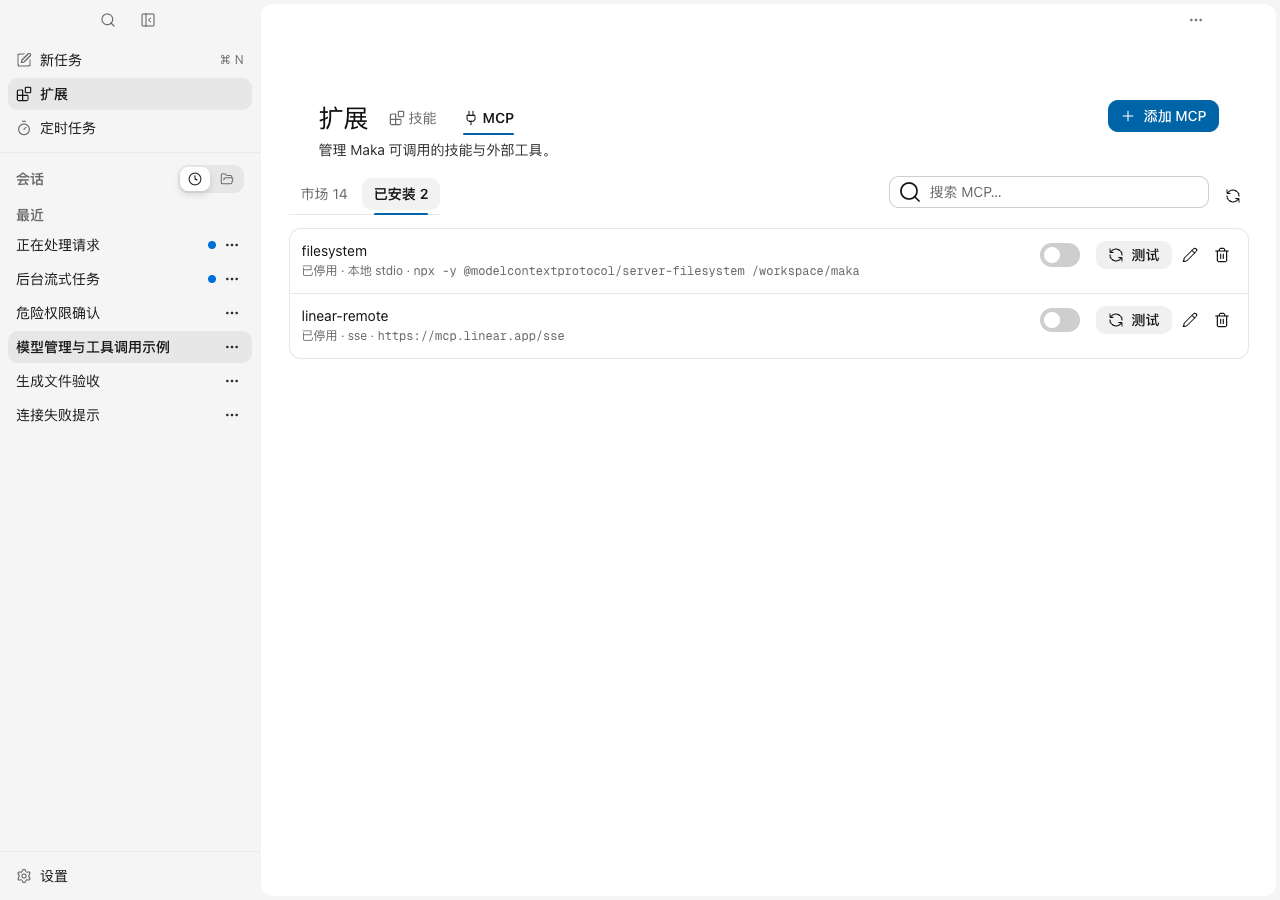
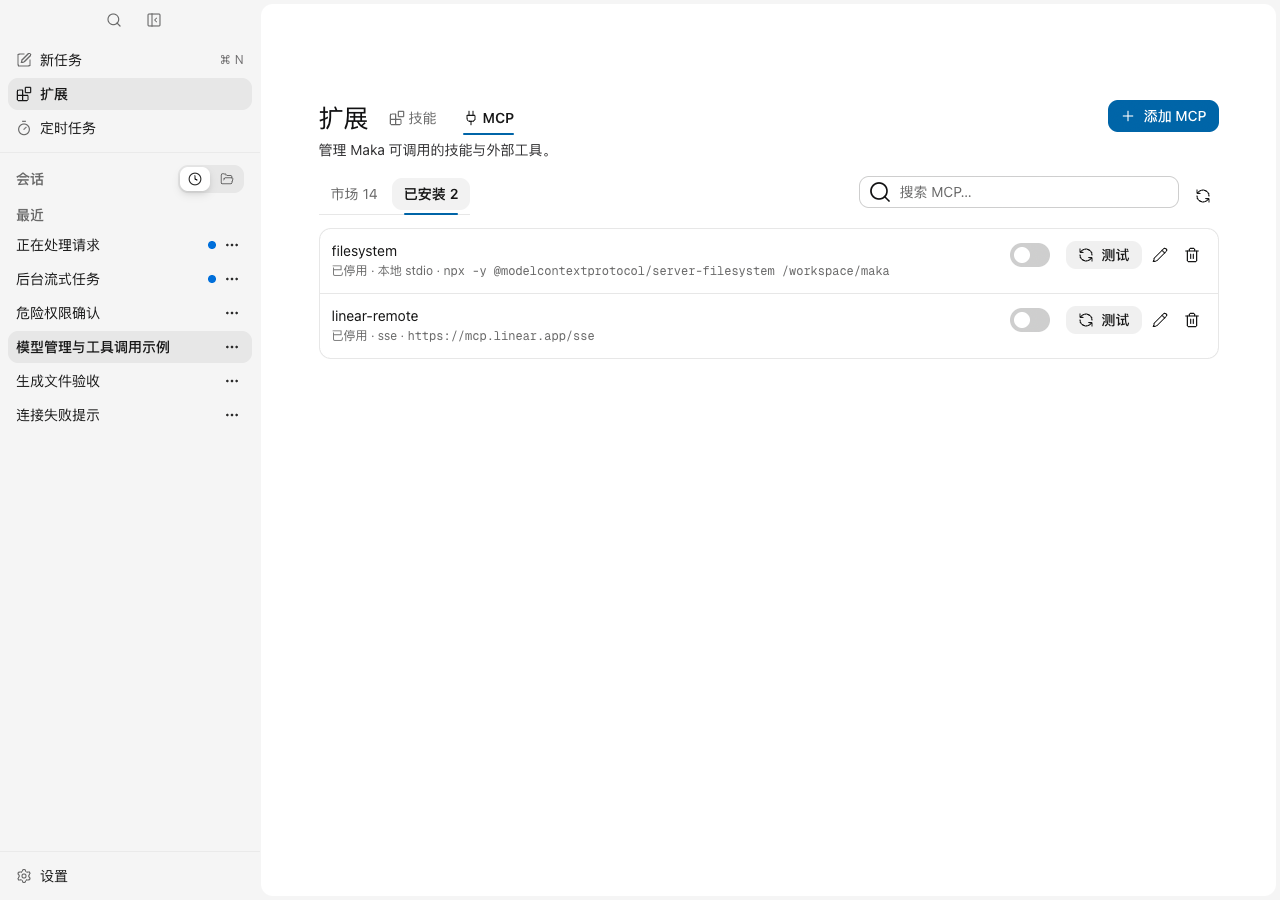
fix(desktop): address MCP review feedback

diff --git a/apps/desktop/e2e/mcp.spec.ts b/apps/desktop/e2e/mcp.spec.ts
@@ -23,13 +23,13 @@ test('module navigation removes the hidden chat surface from layout and hit test
   ).toBe(false);
 });
 
-test('MCP workspace stays centered without horizontal overflow at compact widths', async ({ window: page }) => {
+test('MCP workspace aligns with the shared header without horizontal overflow', async ({ window: page }) => {
   await page.getByRole('button', { name: '展开侧边栏' }).click();
   await page.getByRole('navigation', { name: '对话列表' }).getByRole('button', { name: '扩展', exact: true }).click();
   await page.locator('.maka-module-hub-selector').getByRole('button', { name: 'MCP' }).click();
   await expect(page.locator('.maka-mcp-workspace')).toBeVisible();
 
-  for (const width of [861, 860, 761]) {
+  for (const width of [1440, 1280, 861, 860, 761]) {
     await page.setViewportSize({ width, height: 700 });
     await expect.poll(() => page.evaluate(() => window.innerWidth)).toBe(width);
 
@@ -42,6 +42,7 @@ test('MCP workspace stays centered without horizontal overflow at compact widths
         throw new Error('Expected the MCP module layout');
       }
       const mainRect = main.getBoundingClientRect();
+      const headerRect = header.getBoundingClientRect();
       const workspaceRect = workspace.getBoundingClientRect();
       return {
         mainOverflow: main.scrollWidth - main.clientWidth,
@@ -49,6 +50,10 @@ test('MCP workspace stays centered without horizontal overflow at compact widths
           workspaceRect.left + workspaceRect.width / 2
             - (mainRect.left + main.clientWidth / 2),
         ),
+        headerWidth: headerRect.width,
+        workspaceWidth: workspaceRect.width,
+        leftEdgeDelta: Math.abs(workspaceRect.left - headerRect.left),
+        rightEdgeDelta: Math.abs(workspaceRect.right - headerRect.right),
         headerDisplay: getComputedStyle(header).display,
         commandBarDisplay: getComputedStyle(commandBar).display,
       };
@@ -56,8 +61,72 @@ test('MCP workspace stays centered without horizontal overflow at compact widths
 
     expect(geometry.mainOverflow, `${width}px: ${JSON.stringify(geometry)}`).toBe(0);
     expect(geometry.centerDelta, `${width}px: ${JSON.stringify(geometry)}`).toBeLessThanOrEqual(1);
+    if (width >= 1280) {
+      expect(geometry.headerWidth, `${width}px: ${JSON.stringify(geometry)}`).toBe(900);
+      expect(geometry.workspaceWidth, `${width}px: ${JSON.stringify(geometry)}`).toBe(geometry.headerWidth);
+      expect(geometry.leftEdgeDelta, `${width}px: ${JSON.stringify(geometry)}`).toBeLessThanOrEqual(1);
+      expect(geometry.rightEdgeDelta, `${width}px: ${JSON.stringify(geometry)}`).toBeLessThanOrEqual(1);
+    }
     expect(geometry.headerDisplay).toBe(width <= 860 ? 'grid' : 'flex');
     expect(geometry.commandBarDisplay).toBe(width <= 860 ? 'grid' : 'flex');
+  }
+});
+
+test('MCP server descriptions truncate with an ellipsis at 700px and 500px', async ({ window: page }) => {
+  await page.getByRole('button', { name: '展开侧边栏' }).click();
+  await page.getByRole('navigation', { name: '对话列表' }).getByRole('button', { name: '扩展', exact: true }).click();
+  await page.locator('.maka-module-hub-selector').getByRole('button', { name: 'MCP' }).click();
+
+  const endpoint = `https://example.com/${'narrow-description-segment/'.repeat(12)}mcp`;
+  await page.evaluate(async (url) => {
+    await window.maka.mcp.upsert('long-endpoint', {
+      enabled: false,
+      url,
+      transport: 'streamable-http',
+    });
+  }, endpoint);
+  await page.getByRole('button', { name: '刷新' }).click();
+  const installedTab = page.locator('[data-tab-value="installed"]');
+  await expect(installedTab).toContainText('已安装');
+  await expect(installedTab).toContainText('1');
+  await installedTab.click();
+
+  const row = page.getByRole('listitem').filter({ hasText: 'long-endpoint' });
+  const description = row.locator('[data-maka-contract="mcp-server-description"]');
+  await expect(description).toBeVisible();
+  await expect(description.getByTitle(endpoint)).toHaveText(endpoint);
+
+  for (const width of [700, 500]) {
+    await page.setViewportSize({ width, height: 700 });
+    await expect.poll(() => page.evaluate(() => window.innerWidth)).toBe(width);
+
+    const geometry = await description.evaluate((content) => {
+      const slot = content.parentElement;
+      const main = content.closest<HTMLElement>('.maka-module-main');
+      const summary = content.closest<HTMLElement>('.maka-mcp-server-summary');
+      if (!slot || !main || !summary) throw new Error('Expected the MCP server description layout');
+      const slotStyle = getComputedStyle(slot);
+      const contentStyle = getComputedStyle(content);
+      const slotRect = slot.getBoundingClientRect();
+      const summaryRect = summary.getBoundingClientRect();
+      return {
+        mainOverflow: main.scrollWidth - main.clientWidth,
+        contentOverflow: content.scrollWidth - content.clientWidth,
+        slotRightOverflow: slotRect.right - summaryRect.right,
+        slotOverflow: slotStyle.overflow,
+        contentOverflowStyle: contentStyle.overflow,
+        contentTextOverflow: contentStyle.textOverflow,
+        contentWhiteSpace: contentStyle.whiteSpace,
+      };
+    });
+
+    expect(geometry.mainOverflow, `${width}px: ${JSON.stringify(geometry)}`).toBe(0);
+    expect(geometry.contentOverflow, `${width}px: ${JSON.stringify(geometry)}`).toBeGreaterThan(0);
+    expect(geometry.slotRightOverflow, `${width}px: ${JSON.stringify(geometry)}`).toBeLessThanOrEqual(1);
+    expect(geometry.slotOverflow).toBe('hidden');
+    expect(geometry.contentOverflowStyle).toBe('hidden');
+    expect(geometry.contentTextOverflow).toBe('ellipsis');
+    expect(geometry.contentWhiteSpace).toBe('nowrap');
   }
 });
 
@@ -145,6 +214,7 @@ test('MCP module completes stdio add, discovery, disable, JSON import, and delet
   await extensionSelector.getByRole('button', { name: 'MCP' }).click();
   const mcp = page.getByRole('main', { name: '扩展' });
   await expect(mcp.getByRole('heading', { name: '扩展' })).toBeVisible();
+  await expect(mcp.getByRole('toolbar', { name: 'MCP 浏览操作' })).toBeVisible();
   await expect(extensionSelector).toHaveAccessibleName('扩展内容：MCP');
   await expect(mcp.getByText('把 Maka 连接到你的工作环境')).toBeVisible();
   await expect(mcp.locator('[data-maka-contract="module-actions"]').getByRole('button')).toHaveCount(1);

diff --git a/apps/desktop/src/renderer/locales/mcp-copy.ts b/apps/desktop/src/renderer/locales/mcp-copy.ts
@@ -15,7 +15,7 @@ export type McpCopy = {
   remove: { title(id: string): string; description: string; confirm: string; cancel: string };
   page: {
     subtitle: string; actionsAria: string; refreshing: string; refresh: string; add: string;
-    workspaceAria: string; setupTitle: string; setupDescription: string; localStdio: string;
+    workspaceAria: string; toolbarAria: string; setupTitle: string; setupDescription: string; localStdio: string;
     categoriesAria: string; market: string; installed: string; searchPlaceholder: string; searchAria: string;
     noMarket: string; noMarketDetail(query: string): string; clearSearch: string; loading: string;
     noInstalled: string; noInstalledDetail: string; browseMarket: string; noInstalledMatch: string; noInstalledMatchDetail(query: string): string;
@@ -59,7 +59,7 @@ const MCP_COPY = {
     remove: { title: (id) => `删除 MCP「${id}」？`, description: '它提供的工具会从下一次 agent turn 中移除，配置无法自动恢复。', confirm: '删除', cancel: '取消' },
     page: {
       subtitle: '连接外部应用、数据与服务，为 Maka 安全地扩展新工具。', actionsAria: 'MCP 操作', refreshing: '刷新中…', refresh: '刷新', add: '添加 MCP',
-      workspaceAria: 'MCP 市场与已安装项', setupTitle: '把 Maka 连接到你的工作环境', setupDescription: '从精选模板开始，或添加任意 stdio、Streamable HTTP 与 SSE server。',
+      workspaceAria: 'MCP 市场与已安装项', toolbarAria: 'MCP 浏览操作', setupTitle: '把 Maka 连接到你的工作环境', setupDescription: '从精选模板开始，或添加任意 stdio、Streamable HTTP 与 SSE server。',
       localStdio: '本地 stdio', categoriesAria: 'MCP 分类', market: '市场', installed: '已安装',
       searchPlaceholder: '搜索 MCP…', searchAria: '搜索 MCP', noMarket: '没有找到匹配的 MCP', noMarketDetail: (query) => `换一个关键词，或清空「${query}」查看全部模板。`,
       clearSearch: '清空搜索', loading: '正在读取 MCP 配置…', noInstalled: '还没有安装 MCP', noInstalledDetail: '从市场选择模板，或手动添加你自己的 server。',
@@ -105,7 +105,7 @@ const MCP_COPY = {
     remove: { title: (id) => `Delete MCP “${id}”?`, description: 'Its tools will be removed from the next agent turn, and the configuration cannot be restored automatically.', confirm: 'Delete', cancel: 'Cancel' },
     page: {
       subtitle: 'Connect external apps, data, and services to safely extend Maka with new tools.', actionsAria: 'MCP actions', refreshing: 'Refreshing…', refresh: 'Refresh', add: 'Add MCP',
-      workspaceAria: 'MCP marketplace and installed servers', setupTitle: 'Connect Maka to your work environment', setupDescription: 'Start with a curated template, or add any stdio, Streamable HTTP, or SSE server.',
+      workspaceAria: 'MCP marketplace and installed servers', toolbarAria: 'MCP browser controls', setupTitle: 'Connect Maka to your work environment', setupDescription: 'Start with a curated template, or add any stdio, Streamable HTTP, or SSE server.',
       localStdio: 'Local stdio', categoriesAria: 'MCP categories', market: 'Marketplace', installed: 'Installed',
       searchPlaceholder: 'Search MCP…', searchAria: 'Search MCP', noMarket: 'No matching MCP servers', noMarketDetail: (query) => `Try another keyword, or clear “${query}” to view every template.`,
       clearSearch: 'Clear search', loading: 'Reading MCP configuration…', noInstalled: 'No MCP servers installed', noInstalledDetail: 'Choose a template from the marketplace, or add your own server manually.',

diff --git a/apps/desktop/src/renderer/mcp-page.tsx b/apps/desktop/src/renderer/mcp-page.tsx
@@ -335,7 +335,7 @@ export function McpPage(props: { hubHeader?: ModuleHubHeader }) {
         ) : null}
 
         <div className="maka-mcp-browser">
-          <div className="maka-mcp-command-bar">
+          <div className="maka-mcp-command-bar" role="toolbar" aria-label={copy.page.toolbarAria}>
             <div className="maka-mcp-tabs">
               <TabList
                 value={activeTab}
@@ -584,11 +584,14 @@ function McpServerRow(props: {
     ? props.copy.page.localStdio
     : props.server.transport ?? 'auto';
   return (
+    // Astryx ListItem does not accept children. Keep this semantic wrapper so
+    // the summary Item and its expandable diagnostics form one list item.
     <div className="maka-mcp-server-row" role="listitem">
       <Item
         className="maka-mcp-server-summary"
         align="start"
         density="spacious"
+        descriptionLines={1}
         label={(
           <span className="maka-mcp-server-heading">
             <span>{props.serverId}</span>
@@ -599,7 +602,7 @@ function McpServerRow(props: {
           </span>
         )}
         description={(
-          <span className="maka-mcp-server-description">
+          <span className="maka-mcp-server-description" data-maka-contract="mcp-server-description">
             {!state.exception ? <span>{state.label} · </span> : null}
             <span>{transportLabel} · <code title={endpoint}>{endpoint}</code></span>
           </span>

diff --git a/apps/desktop/src/renderer/styles/module-pages/mcp.css b/apps/desktop/src/renderer/styles/module-pages/mcp.css
@@ -4,7 +4,7 @@
 }
 
 .maka-mcp-workspace {
-  width: min(100%, 960px);
+  width: min(100%, 900px);
   min-height: 0;
   margin-inline: auto;
   display: grid;
@@ -186,6 +186,7 @@
 }
 
 .maka-mcp-server-description {
+  display: block;
   min-width: 0;
   overflow: hidden;
   text-overflow: ellipsis;
